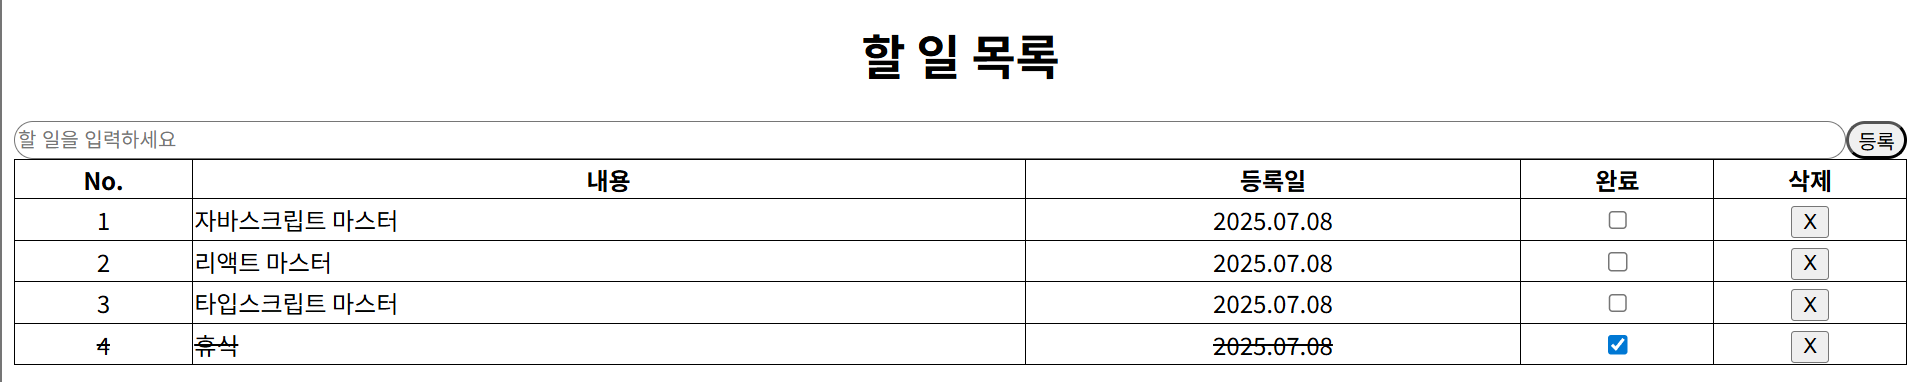
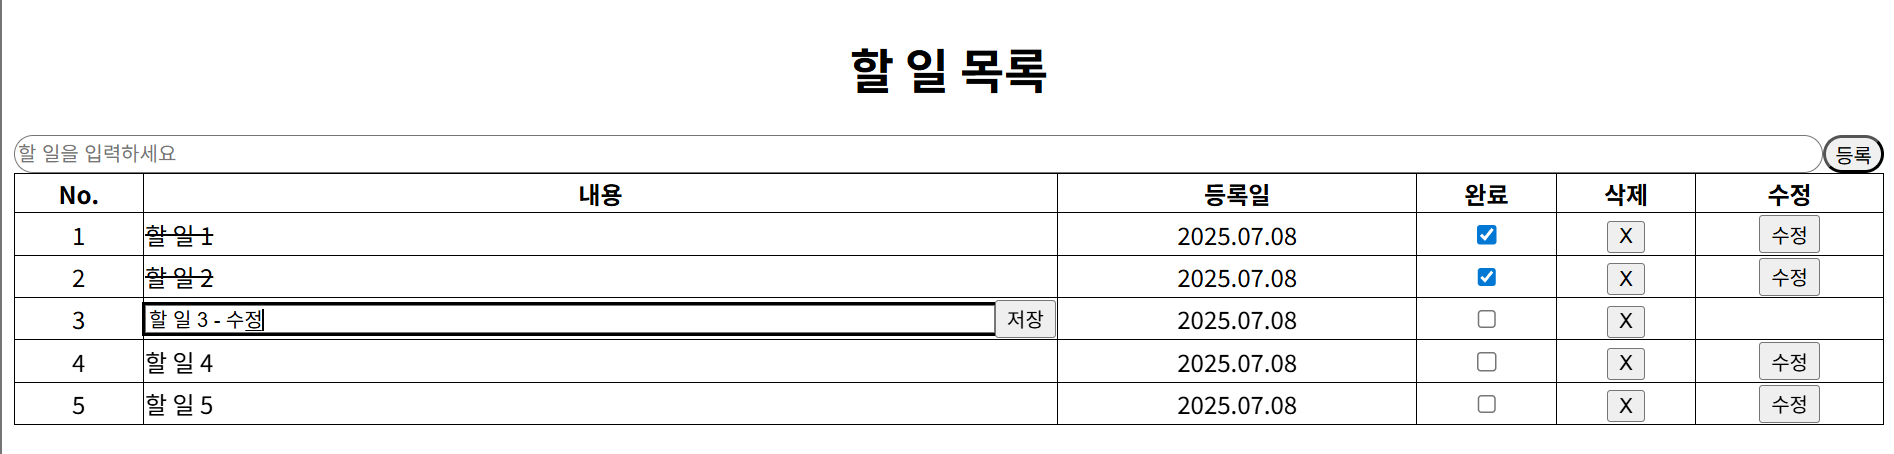
📝 Update README

Changed region(s): [[0.0, 0.288, 1.0, 0.9503], [0.4361, 0.0864, 0.5607, 0.2016]]

diff --git a/README.md b/README.md
@@ -1,11 +1,19 @@
 # 리액트 투두 앱 만들기 미션 레포
 
+## 📌 기술 스택
+
+- React
+- Javascript
+- Typescript
+- Tailwind
+
 ## ✔ 주요 기능
 
 1. 할 일 추가
 2. 할 일 삭제
-3. 완료 체크
-4. `localStorage` 저장 및 동기화
+3. 할 일 수정
+4. 완료 체크
+5. `localStorage` 저장 및 동기화
 
 ---
 
